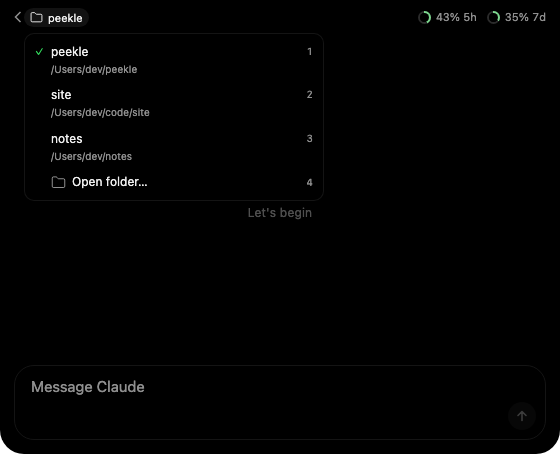
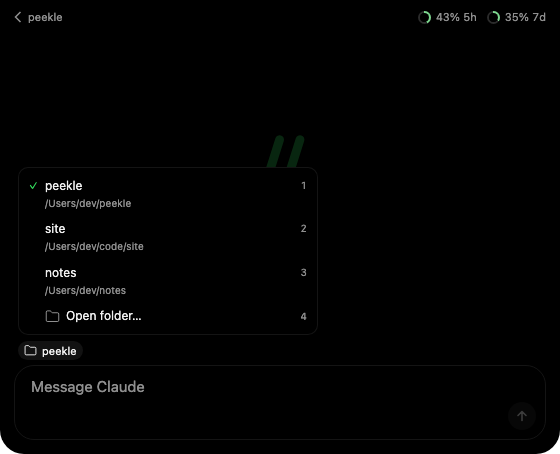
fix: put the folder over the field, where the first message is written
The folder is part of what is about to be said: the first message starts
the agent and starts it there. So the choice stands on its own line over
the field, on its left edge, rather than in the head band, which is
looked at on the way out. Not in the row under the text either -- that
row is about what answers, and it is read every turn, while the folder
is asked once per chat. tech.md 6.23.

The menu opens upward again with it, so the rule it grew for is gone.
The cap it also grew stays: rows are as many as the person has projects.

diff --git a/src/routes/island/+page.svelte b/src/routes/island/+page.svelte
@@ -784,29 +784,12 @@
           />
         {/if}
         <div class="head">
-          <!-- A chat that has not begun is still choosing where to work, and
-               the name in this corner is that choice. Once something has been
-               said the agent lives in that folder and the name goes back to
-               being a name. tech.md 6.23. -->
-          <div class="lead">
-            <button class="back" onclick={() => openList()} aria-label="Back to the session list">
-              <svg viewBox="0 0 8 12" width="8" height="12" aria-hidden="true">
-                <path d="M6.5 1l-5 5 5 5" fill="none" stroke="currentColor" stroke-width="1.5" />
-              </svg>
-              {#if !aiming}
-                <span class="project">{current.session.project}</span>
-              {/if}
-            </button>
-            {#if aiming}
-              <PickerMenu
-                label={current.session.project}
-                icon="folder"
-                options={folders}
-                value={current.session.cwd}
-                onpick={(id) => pickFolder(id)}
-              />
-            {/if}
-          </div>
+          <button class="back" onclick={() => openList()} aria-label="Back to the session list">
+            <svg viewBox="0 0 8 12" width="8" height="12" aria-hidden="true">
+              <path d="M6.5 1l-5 5 5 5" fill="none" stroke="currentColor" stroke-width="1.5" />
+            </svg>
+            <span class="project">{current.session.project}</span>
+          </button>
           <!-- Everything that says how much is left, in one corner: the two
                windows and the context. The ring is the button that compacts.
                tech.md 6.12 and 6.15. -->
@@ -891,6 +874,22 @@
             {/if}
             {#if startError}
               <p class="empty">{startError}</p>
+            {/if}
+            <!-- Where the agent will work, above the field and at its left
+                 edge: the folder is part of what is about to be said, and it
+                 is chosen in the same breath as the first message. It stands
+                 only while it can be taken -- nothing said in this chat yet.
+                 tech.md 6.23. -->
+            {#if aiming}
+              <div class="aim">
+                <PickerMenu
+                  label={current.session.project}
+                  icon="folder"
+                  options={folders}
+                  value={current.session.cwd}
+                  onpick={(id) => pickFolder(id)}
+                />
+              </div>
             {/if}
             <PromptInput
               bind:value={reply}
@@ -1113,16 +1112,6 @@
 
   /* Off it reads as an offer, on it reads as a state, because on it is
      costing the user their extension. tech.md 6.5. */
-  /* The left end of the head band: the way out, and what this chat is called.
-     One child, so the corner opposite keeps its own end of the row. */
-  .lead {
-    display: flex;
-    align-items: center;
-    gap: 2px;
-    flex: 0 1 auto;
-    min-width: 0;
-  }
-
   .back {
     display: flex;
     align-items: center;
@@ -1183,5 +1172,13 @@
     flex-wrap: wrap;
     gap: 6px;
     padding: 0 2px 8px;
+  }
+
+  /* Its own line over the capsule, held to the same left edge the field has:
+     a control tucked into the row under the text would be a fourth thing in a
+     row that is already about the answer, not about where it happens. */
+  .aim {
+    display: flex;
+    padding: 0 4px 5px;
   }
 </style>

diff --git a/src/lib/ui/PickerMenu.svelte b/src/lib/ui/PickerMenu.svelte
@@ -3,13 +3,13 @@
    * A short menu over the content: the current value as a button, the options
    * above it, a tick on the one in force. tech.md 9 and 6.15.
    *
-   * It opens where it fits, on both axes: up for the buttons in the bottom
-   * strip, where a menu opening down is drawn off the shape, and down for the
-   * one in the head band, which has the top edge of the screen above it.
+   * It opens upward because every button that carries one stands in the bottom
+   * strip of the island, and a menu that opens down there is a menu drawn off
+   * the shape.
    */
   import { CodeXml, Folder, Hand, ScrollText, Zap } from '@lucide/svelte';
 
-  import { opensDown, opensRight } from '$lib/logic/agent';
+  import { opensRight } from '$lib/logic/agent';
   import type { PickIcon, PickOption } from '$lib/logic/agent';
 
   /** The signs the rows wear. Names are the icon set's own: a hand drawn by
@@ -45,7 +45,6 @@
   // pressed, before anything is drawn: a menu that appears on one side and
   // jumps to the other is worse than one that is cut off. tech.md 9.
   let flip = $state(false);
-  let down = $state(false);
 
   const usable = $derived(!disabled && options.length > 0);
 
@@ -57,9 +56,7 @@
   function toggle() {
     if (!usable) return;
     if (!open && host) {
-      const box = host.getBoundingClientRect();
-      flip = opensRight(box.left, window.innerWidth);
-      down = opensDown(box.top);
+      flip = opensRight(host.getBoundingClientRect().left, window.innerWidth);
     }
     open = !open;
   }
@@ -112,7 +109,7 @@
   </button>
 
   {#if open}
-    <span class="menu" class:flip class:down role="menu">
+    <span class="menu" class:flip role="menu">
       {#each options as option, index (option.id)}
         <button
           class="option"
@@ -190,6 +187,11 @@
     display: flex;
     flex-direction: column;
     min-width: 130px;
+    /* As many rows as there are projects, and the island is not as tall as
+       that: a menu longer than this scrolls rather than running off the
+       shape. tech.md 9 and 6.23. */
+    max-height: 240px;
+    overflow-y: auto;
     padding: 4px;
     border: 1px solid var(--hairline);
     border-radius: 10px;
@@ -208,36 +210,10 @@
     transform-origin: bottom right;
   }
 
-  /* Hung below, for the button in the head band: above it is the top edge of
-     the screen. tech.md 6.23. */
-  .menu.down {
-    bottom: auto;
-    top: calc(100% + 6px);
-    transform-origin: top left;
-    /* Grown from the button, which is now above it, so it comes down rather
-       than up: motion that contradicts the geometry reads as two menus. */
-    animation-name: grow-down;
-  }
-
-  .menu.down.flip {
-    transform-origin: top right;
-  }
-
   @keyframes grow {
     from {
       opacity: 0;
       transform: scale(0.94) translateY(4px);
-    }
-    to {
-      opacity: 1;
-      transform: none;
-    }
-  }
-
-  @keyframes grow-down {
-    from {
-      opacity: 0;
-      transform: scale(0.94) translateY(-4px);
     }
     to {
       opacity: 1;

diff --git a/tests/e2e/island.spec.ts b/tests/e2e/island.spec.ts
@@ -370,10 +370,9 @@ test.describe('the island route', () => {
   });
 
   /// A chat that has not begun is still choosing where the agent will work,
-  /// and the choice stands where the folder is already named: the top left of
-  /// the dialogue. The menu hangs below it, because above it is the top edge
-  /// of the screen -- which is layout, and layout is measured here. tech.md
-  /// 6.23.
+  /// and the choice stands over the field, on its left edge: the folder is
+  /// part of what is about to be said. Where it stands is layout, and layout
+  /// is measured here. tech.md 6.23.
   test('a chat that has not begun chooses its folder', async ({ page }) => {
     await stub(page, [
       aimed('/Users/dev/peekle'),
@@ -397,11 +396,13 @@ test.describe('the island route', () => {
       'true',
     );
 
-    // Below the button, and on a ground of its own: the ground lived in the
-    // flipped rule alone until v80.9, so a menu opening left had none at all.
-    const under = (await menu.boundingBox())!;
-    const over = (await chip.boundingBox())!;
-    expect(under.y).toBeGreaterThan(over.y);
+    // Over the field and on its left edge, and on a ground of its own: the
+    // ground lived in the flipped rule alone until v80.9, so a menu opening
+    // left had none at all.
+    const button = (await chip.boundingBox())!;
+    const field = (await page.locator('.reply textarea, .reply input').first().boundingBox())!;
+    expect(button.y + button.height).toBeLessThanOrEqual(field.y);
+    expect(Math.abs(button.x - field.x)).toBeLessThan(24);
     const ground = await menu.evaluate((node) => getComputedStyle(node).backgroundColor);
     expect(ground).not.toBe('rgba(0, 0, 0, 0)');
 
@@ -421,7 +422,7 @@ test.describe('the island route', () => {
     await page.goto(ROUTE);
 
     await expect(page.getByText('go on')).toBeVisible();
-    await expect(page.locator('.head .picker-menu')).toHaveCount(0);
+    await expect(page.locator('.aim')).toHaveCount(0);
     await expect(page.locator('.head .project')).toContainText('peekle');
   });
 

diff --git a/src/lib/logic/agent.ts b/src/lib/logic/agent.ts
@@ -206,28 +206,6 @@ export function opensRight(hostLeft: number, viewport: number, width = MENU_WIDT
 }
 
 /**
- * The room a menu is assumed to want above the button that opens it.
- *
- * Three rows and their descriptions. Not the tallest menu there is -- the
- * folders are as many as the projects -- because a menu that is too tall for
- * either side has to pick one, and up is where they have always opened.
- */
-export const MENU_ROOM = 200;
-
-/**
- * Whether a menu opening from this button has to hang below it instead.
- * tech.md 9 and 6.23.
- *
- * The same question as `opensRight`, on the other axis, answered the same way:
- * from where the button is, before anything is drawn. A button in the head
- * band stands under the top edge of the screen, and there is no upward for it
- * to open into.
- */
-export function opensDown(hostTop: number, room = MENU_ROOM): boolean {
-  return hostTop < room;
-}
-
-/**
  * How long an answer stands before it goes, in milliseconds.
  *
  * Ten seconds, and the block shows them leaking rather than vanishing at the

diff --git a/features/README.md b/features/README.md
@@ -56,23 +56,25 @@ and opening it in a terminal, which is the trip this product exists to save.
 `start_session` only aims: the card exists, the process starts with the first
 message. Until then the folder is an intention nobody has read, and that is
 exactly the window the choice lives in. So a chat that has not begun carries
-its folder in the top left of the dialogue, where its name already stood:
-pressing it opens every folder the island knows — the `cwd` of the cards it
-holds, each named once, newest first, the path under the name, a tick on the
-one in force — and **Open folder…** last, which raises the macOS dialog for
-anything else on disk. Say one word and the choice is over: the agent is living
-in that folder, and no `cd` reaches it. Rust refuses on its own too, in its own
-words for each of the three ways it can be asked wrongly.
+its folder on its own line over the field, held to the field's left edge —
+the folder is part of what is about to be said, since the first message is
+what starts the agent and starts it there. Pressing it opens every folder the
+island knows — the `cwd` of the cards it holds, each named once, newest first,
+the path under the name, a tick on the one in force — and **Open folder…**
+last, which raises the macOS dialog for anything else on disk. Say one word
+and the choice is over: the agent is living in that folder, and no `cd`
+reaches it. Rust refuses on its own too, in its own words for each of the
+three ways it can be asked wrongly.
 
 `choose_folder` is the one place the app takes the front deliberately — a
 system dialog only comes up on the active application — and it gives it back
 the moment the dialog closes.
 
-Two things the menu needed on the way. It opens downward now, decided from
-where its button is, the same way it already decided which side to hold: there
-is no upward for a button under the top edge of the screen. And its ground
-lived in the flipped rule alone, so a menu that held its left edge was drawn
-with no ground at all.
+Two things the menu needed on the way. Its ground lived in the flipped rule
+alone, so a menu that held its left edge — the models, every time — was drawn
+with no ground at all, its rows straight over the conversation. And it stops
+growing at 240 pixels and scrolls: there are as many folder rows as the person
+has projects, and the island is not that tall.
 
 ![Choosing the folder a new chat works in](shots/folder-pick.png)
 
